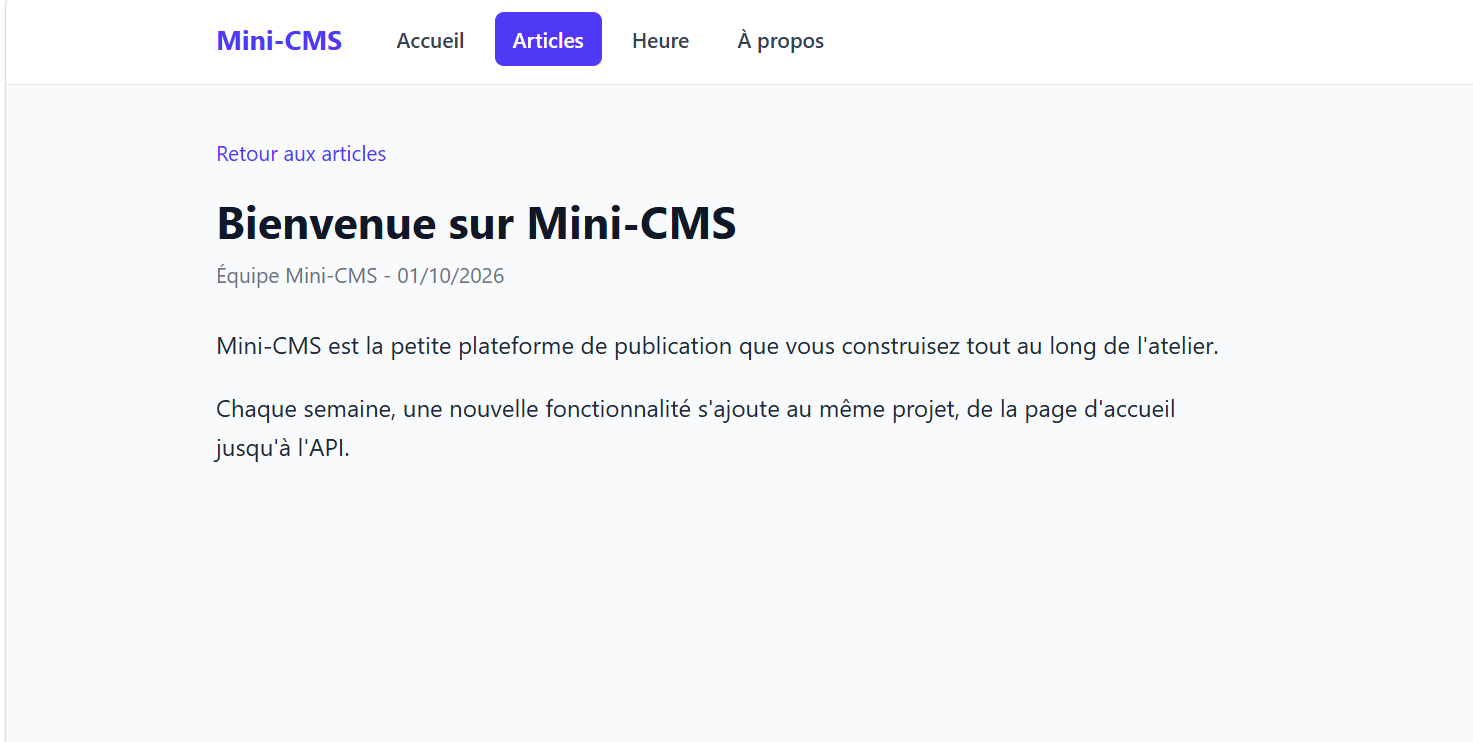
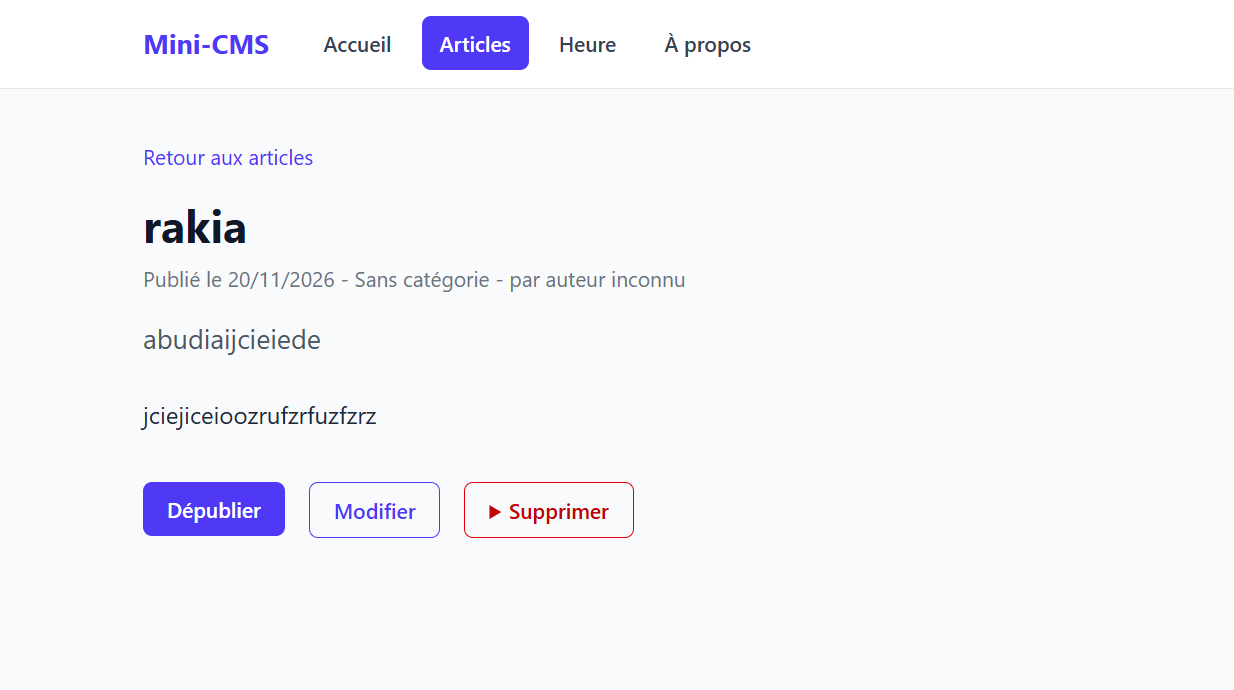
Mettre a jour le README pour lab-04

diff --git a/database/migrations/2026_11_20_110830_repair_missing_tags_table.php b/database/migrations/2026_11_20_110830_repair_missing_tags_table.php
@@ -1,0 +1,25 @@
+<?php
+
+use Illuminate\Database\Migrations\Migration;
+use Illuminate\Database\Schema\Blueprint;
+use Illuminate\Support\Facades\Schema;
+
+return new class extends Migration
+{
+    public function up(): void
+    {
+        if (!Schema::hasTable('tags')) {
+            Schema::create('tags', function (Blueprint $table) {
+                $table->id();
+                $table->string('name');
+                $table->string('slug')->unique();
+                $table->timestamps();
+            });
+        }
+    }
+
+    public function down(): void
+    {
+        // Ne pas supprimer la table tags pendant cette réparation.
+    }
+};

diff --git a/README.md b/README.md
@@ -1,30 +1,10 @@
-## État actuel (tag lab-03b)
+## État actuel (tag lab-04)
 
-- CRUD complet des articles : liste, détail, création, modification, suppression avec confirmation.
-- Colonne `excerpt` ajoutée par une nouvelle migration.
-- Scope `published` utilisé sur l'accueil et l'archive.
-- Tests Pest des lectures (`PostPagesTest`) et des écritures (`PostWriteTest`) : `php artisan test`.
+- Modèles `Category` et `Tag` reliés à `Post` : un article a une catégorie et un auteur (1:N) et plusieurs tags (N:N, table pivot `post_tag`).
+- Fabriques `PostFactory` (état `published()`), `CategoryFactory`, `TagFactory` et seeders pour un jeu de données réaliste.
+- Chargement anticipé avec `with()` ; `Model::preventLazyLoading()` signale tout problème N+1 hors production.
+- Tests Pest : `PostPagesTest`, `PostWriteTest` et `PostRelationsTest`.
 
-## Routes disponibles
+## Données de démonstration
 
-| Méthode | URI | Nom | Action |
-|---|---|---|---|
-| GET | `/` | `home` | `PageController@home` |
-| GET | `/a-propos` | `about` | `PageController@about` |
-| GET | `/heure` | `time` | `PageController@time` |
-| GET | `/posts` | `posts.index` | `PostController@index` |
-| GET | `/posts/archive/{year}` | `posts.archive` | `PostController@archive` |
-| GET | `/posts/create` | `posts.create` | `PostController@create` |
-| POST | `/posts` | `posts.store` | `PostController@store` |
-| GET | `/posts/{post}` | `posts.show` | `PostController@show` |
-| GET | `/posts/{post}/edit` | `posts.edit` | `PostController@edit` |
-| PUT | `/posts/{post}` | `posts.update` | `PostController@update` |
-| DELETE | `/posts/{post}` | `posts.destroy` | `PostController@destroy` |
-| PATCH | `/posts/{post}/publication` | `posts.publication` | `PostController@togglePublication` |
-
-
-### Session 06
-
-![Formulaire de modification prérempli](screenshots/s06-modification.png)
-
-![Confirmation de suppression](screenshots/s06-suppression.png)
+Après un clone, reconstruire la base avec `php artisan migrate:fresh --seed`. Attention : cette commande vide la base avant de la remplir.
